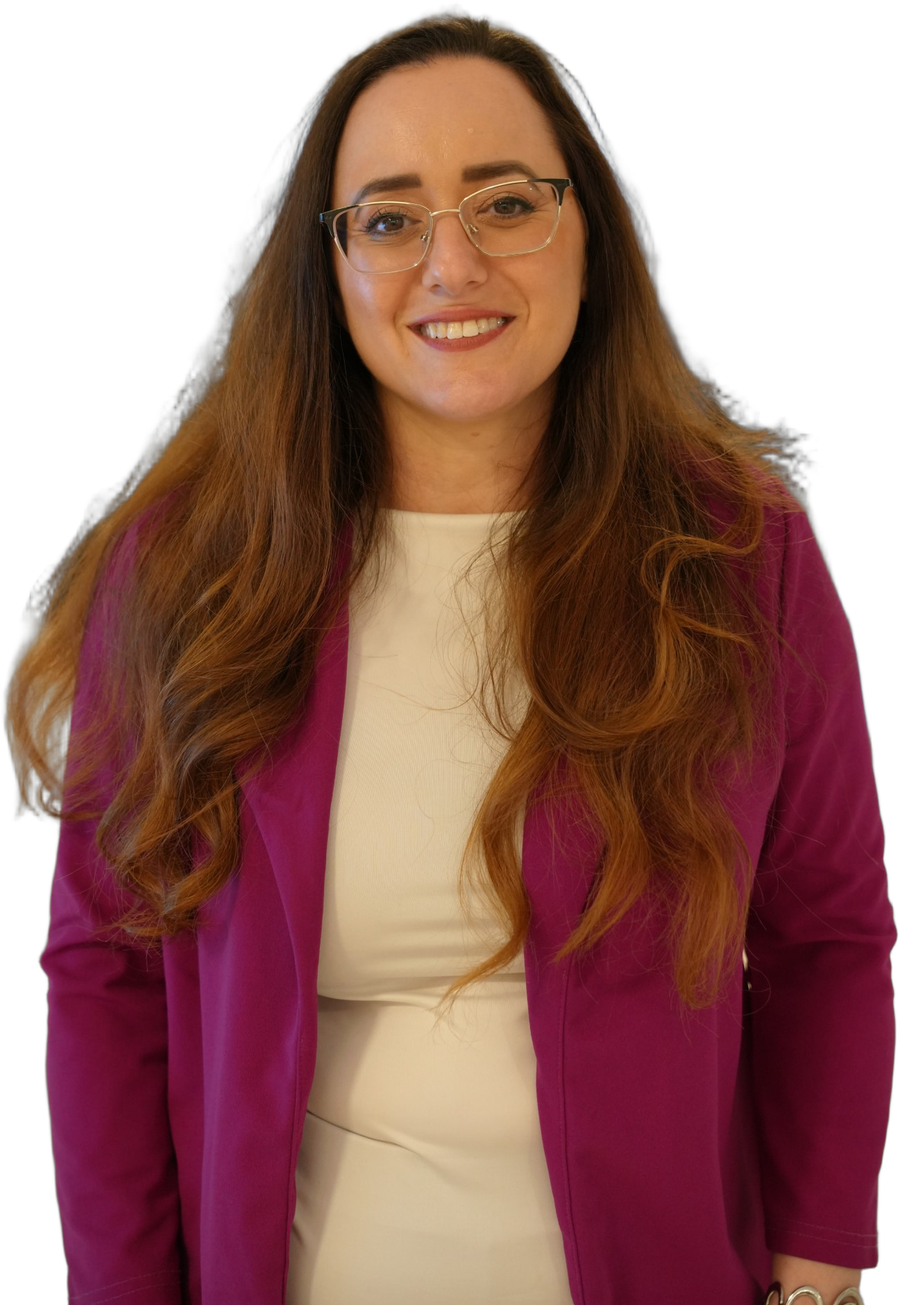
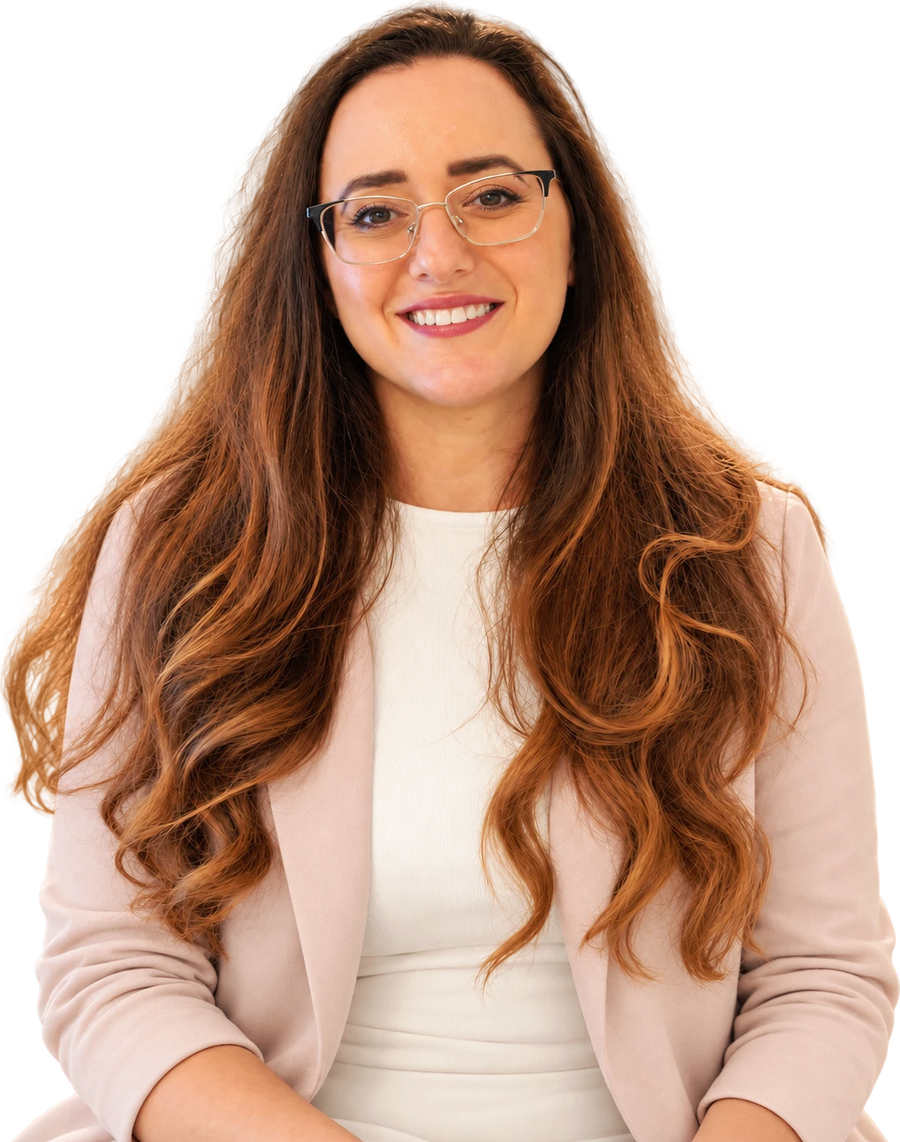
Version A: new host photo (light blazer, transparent background)
Claude-Session: https://claude.ai/code/session_01KFB4KkQGiDG3hveJ7nv6z9

diff --git a/landing-pages/meital-avrahami/index.html b/landing-pages/meital-avrahami/index.html
@@ -481,7 +481,7 @@ footer a{color:var(--sage-soft)}
 <section class="section about-sec" aria-labelledby="about-title">
   <div class="wrap about">
     <div class="portrait rv">
-      <picture><source srcset="assets/meital-cutout.webp" type="image/webp"><img src="assets/meital-cutout.png" alt="מיטל אברהמי" width="900" height="1305" loading="lazy"></picture>
+      <picture><source srcset="assets/meital-cutout.webp" type="image/webp"><img src="assets/meital-cutout.png" alt="מיטל אברהמי" width="900" height="1142" loading="lazy"></picture>
     </div>
     <div>
       <span class="eyebrow rv">בהנחיית</span>
